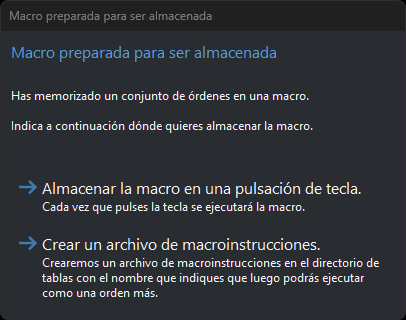
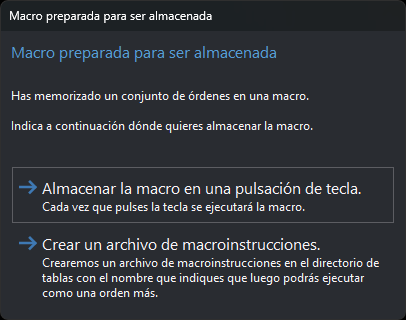
Cuadros No se ha localizado un archivo de referencia y Macro preparada para ser almacenada
Nueva pagina del cuadro de archivo de referencia no localizado, con la
descripcion de cada boton. En la pagina de la barra Macro se actualiza la
captura y se documenta el boton Descartar la macro y que el cuadro no se
cierra con Esc.

Changed region(s): [[0.0, 0.0312, 0.532, 0.0625], [0.0296, 0.6875, 0.0591, 0.7188], [0.0296, 0.5, 0.0591, 0.5312]]

diff --git a/src/digi3d-ai/referencia/cuadros-de-dialogo/no-se-ha-localizado-un-archivo-de-referencia.md b/src/digi3d-ai/referencia/cuadros-de-dialogo/no-se-ha-localizado-un-archivo-de-referencia.md
@@ -1,0 +1,20 @@
+# No se ha localizado un archivo de referencia
+<!-- id: no-se-ha-localizado-un-archivo-de-referencia -->
+
+![Cuadro No se ha localizado un archivo de referencia](../../../images/no-se-ha-localizado-un-archivo-de-referencia.png)
+
+Digi3D.AI muestra este cuadro al abrir un archivo de dibujo cuando uno de sus archivos de referencia ya no existe en la ruta guardada. Aparece un cuadro por cada archivo de referencia que falta. Si has marcado los archivos de referencia en el cuadro [Selección de archivos de referencia](seleccion-de-archivos-de-referencia.md), solo se comprueban los que has marcado.
+
+El contenido indica el archivo de dibujo que contiene la referencia y el nombre del archivo de referencia que falta.
+
+## Contenido
+
+* **Más información**: la ruta completa del archivo de referencia que no se ha podido localizar, tal y como está guardada en el [archivo de archivos de referencia](../archivos/archivo-de-archivos-de-referencia.md) o en el archivo de dibujo.
+
+## Botones
+
+El cuadro no se puede cerrar con la tecla Esc ni con el botón de cierre de la ventana: tienes que elegir uno de estos botones.
+
+* **Omitir**: Digi3D.AI no carga este archivo de referencia y no modifica el archivo de dibujo. La referencia sigue guardada y el cuadro volverá a aparecer la próxima vez que abras el archivo de dibujo.
+* **Eliminar referencia**: Digi3D.AI no carga el archivo de referencia y elimina la referencia al instante, sin esperar a que guardes: la quita del archivo de dibujo y del archivo de archivos de referencia. El efecto es el mismo que el de la orden [DEJAR](../ventana-de-dibujo/ordenes/d/dejar.md). No marca el documento como modificado. Si el archivo de dibujo es de solo lectura, la referencia no se elimina de él y el cuadro volverá a aparecer la próxima vez.
+* **Localizar el archivo**: muestra un cuadro de diálogo para abrir un archivo, con el nombre del archivo que falta como nombre propuesto. Si lo aceptas, Digi3D.AI sustituye en el archivo de dibujo la referencia antigua por la ruta completa del archivo elegido y lo carga. Si cancelas el cuadro de diálogo, el resultado es el mismo que con **Omitir**.

diff --git a/src/digi3d-ai/referencia/barras-de-herramientas/macro.md b/src/digi3d-ai/referencia/barras-de-herramientas/macro.md
@@ -16,10 +16,11 @@ Digi3D.AI anota cada orden cuando la orden termina. Una orden que sigue activa a
 
 ![Cuadro de diálogo Macro preparada para ser almacenada](../../../images/macro-preparada-para-ser-almacenada.png)
 
-Elige dónde se almacena la macro:
+Elige dónde se almacena la macro. El cuadro no se puede cerrar con la tecla Esc ni con el botón de cierre de la ventana: tienes que elegir uno de estos botones.
 
 * **Almacenar la macro en una pulsación de tecla**: Digi3D.AI escribe las órdenes grabadas en un archivo temporal y ejecuta la orden [TECLA](../ventana-de-dibujo/ordenes/t/tecla.md) con ese archivo. TECLA pide que pulses una tecla y abre su cuadro de diálogo con la secuencia de órdenes grabada. Cada vez que pulses esa tecla se ejecutará la macro. Si no se puede crear el archivo temporal, Digi3D.AI muestra el error «Error al crear el archivo temporal...».
 * **Crear un archivo de macroinstrucciones**: abre el cuadro de diálogo **Almacenar archivo de macro-instrucciones**. El archivo se podrá ejecutar después como una orden más.
+* **Descartar la macro**: borra las órdenes grabadas y no almacena nada.
 
 ## Cuadro de diálogo Almacenar archivo de macro-instrucciones
 

diff --git a/src/SUMMARY.md b/src/SUMMARY.md
@@ -1318,6 +1318,7 @@
       * [Error al crear el directorio de la copia de seguridad](digi3d-ai/referencia/cuadros-de-dialogo/error-al-crear-el-directorio-de-la-copia-de-seguridad.md)
       * [Error en los atributos de usuario](digi3d-ai/referencia/cuadros-de-dialogo/error-en-los-atributos-de-usuario.md)
       * [Introduce un punto terreno del archivo de puntos](digi3d-ai/referencia/cuadros-de-dialogo/introduce-punto-terreno.md)
+      * [No se ha localizado un archivo de referencia](digi3d-ai/referencia/cuadros-de-dialogo/no-se-ha-localizado-un-archivo-de-referencia.md)
       * [No se ha podido cargar la tabla de códigos](digi3d-ai/referencia/cuadros-de-dialogo/no-se-ha-podido-cargar-la-tabla-de-codigos.md)
       * [Nuevo proyecto](digi3d-ai/referencia/cuadros-de-dialogo/nuevo-proyecto/README.md)
         * [Sensores fotogramétricos](digi3d-ai/referencia/cuadros-de-dialogo/nuevo-proyecto/sensores-fotogrametricos.md)
